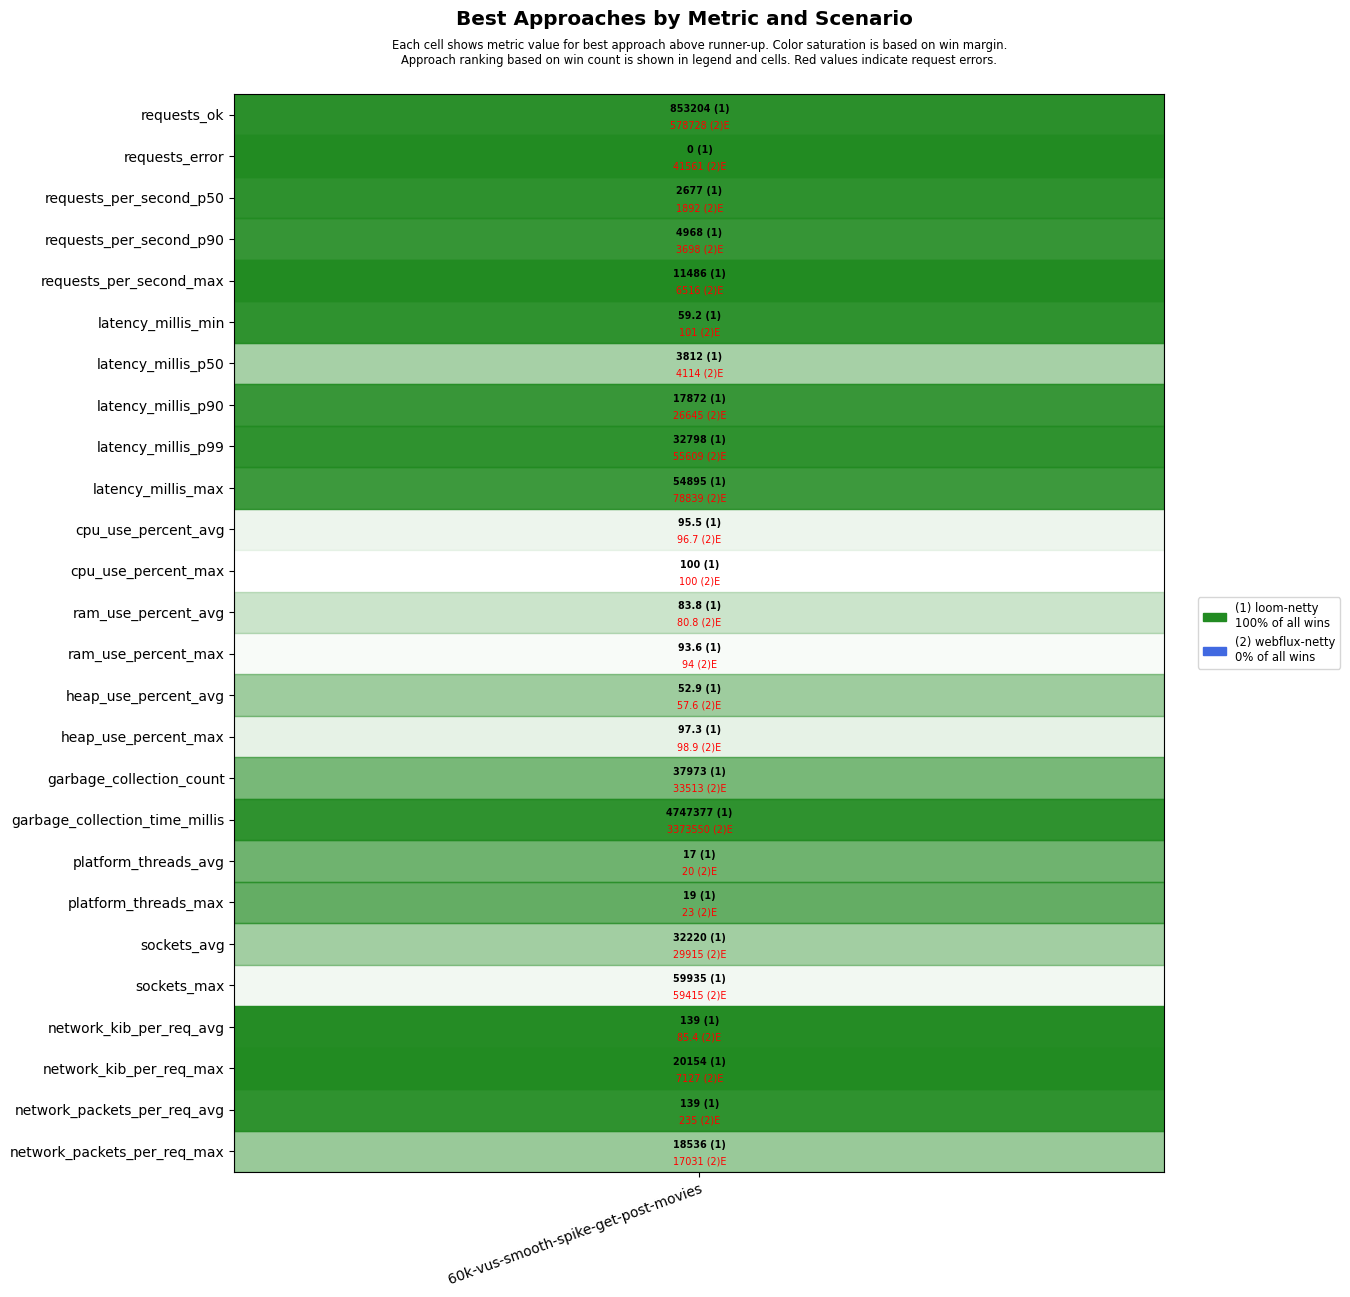
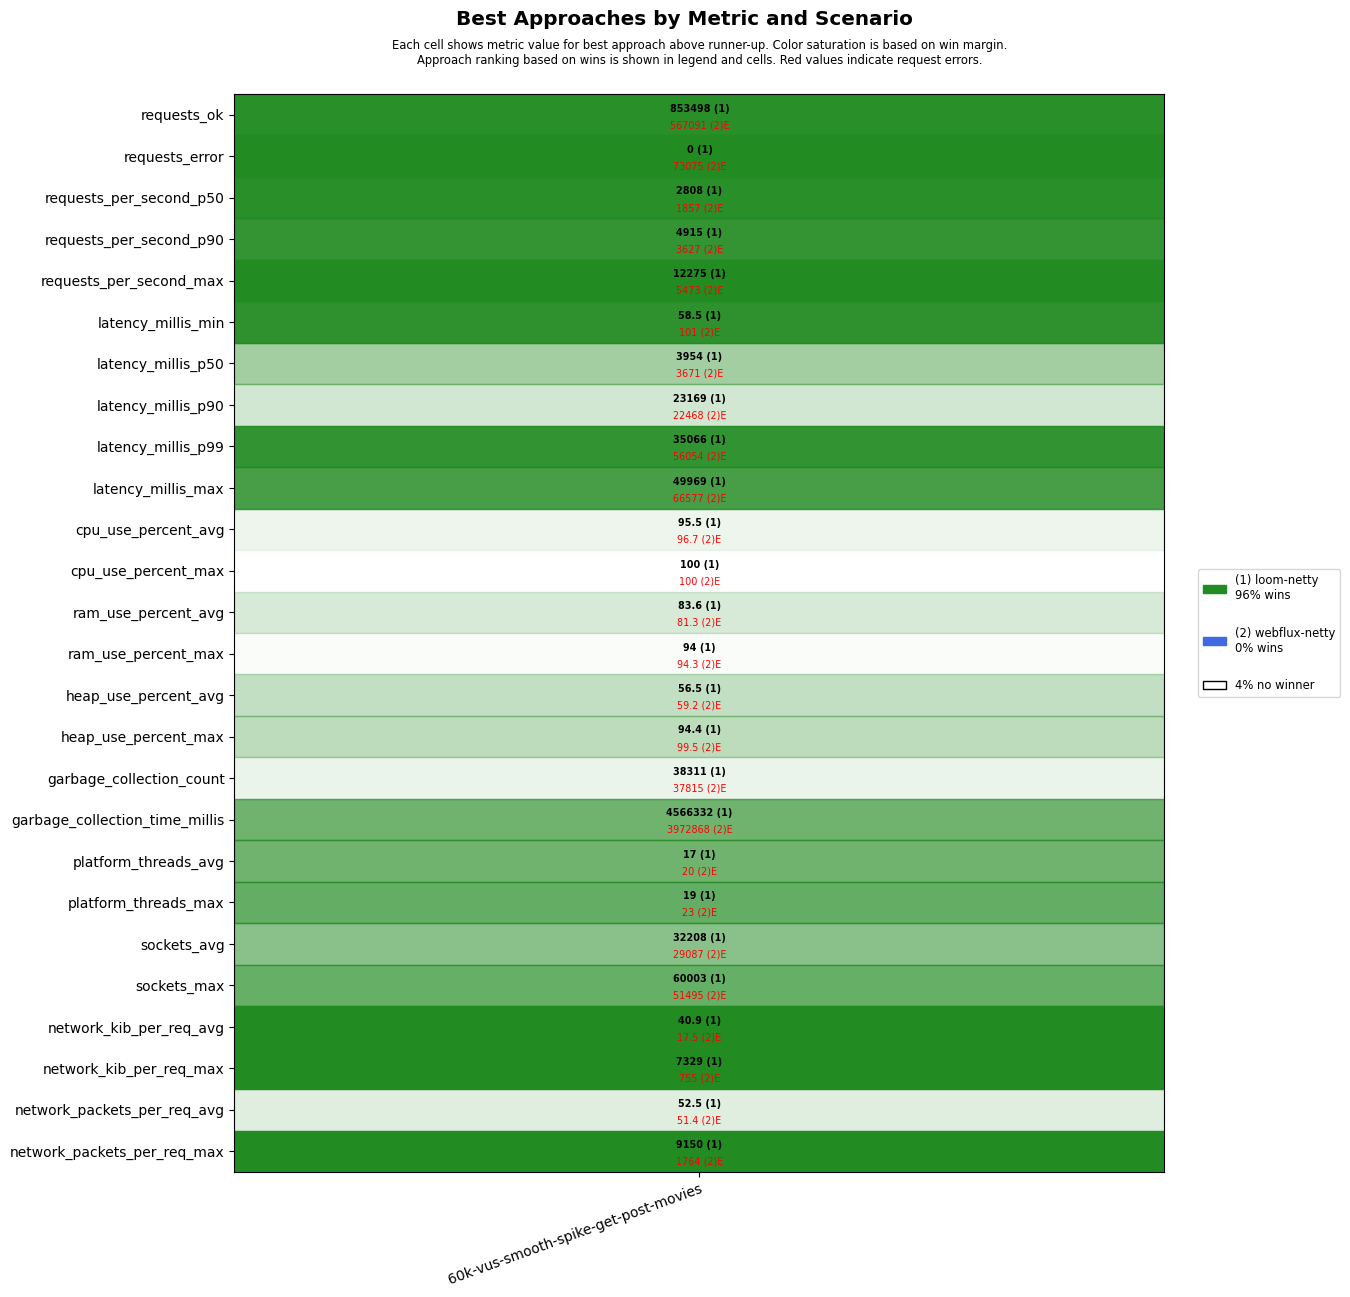
Apply automatic changes

diff --git a/results/ci/scenarios-high-load/ubuntu-24.04/java-22/results.md b/results/ci/scenarios-high-load/ubuntu-24.04/java-22/results.md
@@ -1,0 +1,54 @@
+# scenarios-high-load
+
+## Test Time
+
+| **Name**                | **Value** |
+|-------------------------|-----------|
+| **Start (UTC)** | 2024-08-02 13:19:45 |
+| **End (UTC)** | 2024-08-02 13:31:29 |
+| **Duration (hh:mm:ss)** | 00:11:44 |
+
+## System Specs
+
+| **Name**                | **Value** |
+|-------------------------|-----------|
+| **Java** | OpenJDK 64-Bit Server VM Corretto-22.0.2.9.1 (build 22.0.2+9-FR, mixed mode, sharing) |
+| **Python** | 3.12.3 |
+| **OS** | Ubuntu 24.04 LTS |
+| **Kernel** | 6.8.0-1010-azure |
+| **CPU** | AMD EPYC 7763 64-Core Processor |
+| **CPU Cores** | 4 |
+| **RAM** | 15Gi total, 14Gi available |
+| **Disk** | 159G total, 105G available |
+
+## Scenarios
+
+**Scenario file:** src/main/resources/scenarios/scenarios-high-load.csv
+
+| Scenario | k6 Config | Server Profiles | Delay Call Depth | Delay (ms) | Connections | Requests per Second | Warmup Duration (s) | Test Duration (s) |
+|----------|-----------|-----------------|------------------|------------|-------------|---------------------|---------------------|------------------|
+| [60k-vus-smooth-spike-get-post-movies](#60k-vus-smooth-spike-get-post-movies) | get-post-movies-smooth-vus-spike.js |  | 0 | 100 | 60000 |  | 0 | 300 |
+
+## Result Overview
+
+### Overall
+
+![Overall Results](./results.png)
+### Netty-based
+
+![Netty Results](./results-netty.png)
+
+## Result Details
+
+
+### 60k-vus-smooth-spike-get-post-movies
+
+#### loom-netty
+
+![loom-netty](./60k-vus-smooth-spike-get-post-movies/loom-netty.png)
+
+#### webflux-netty
+
+![webflux-netty](./60k-vus-smooth-spike-get-post-movies/webflux-netty.png)
+
+
